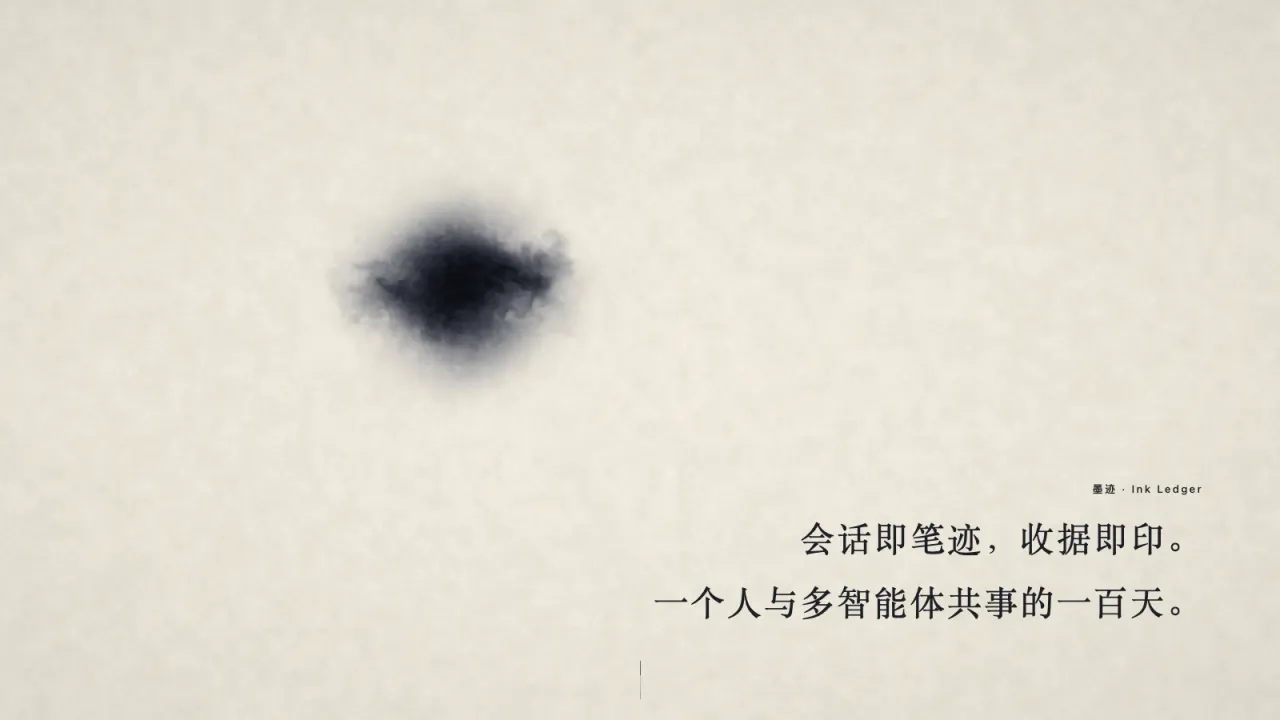
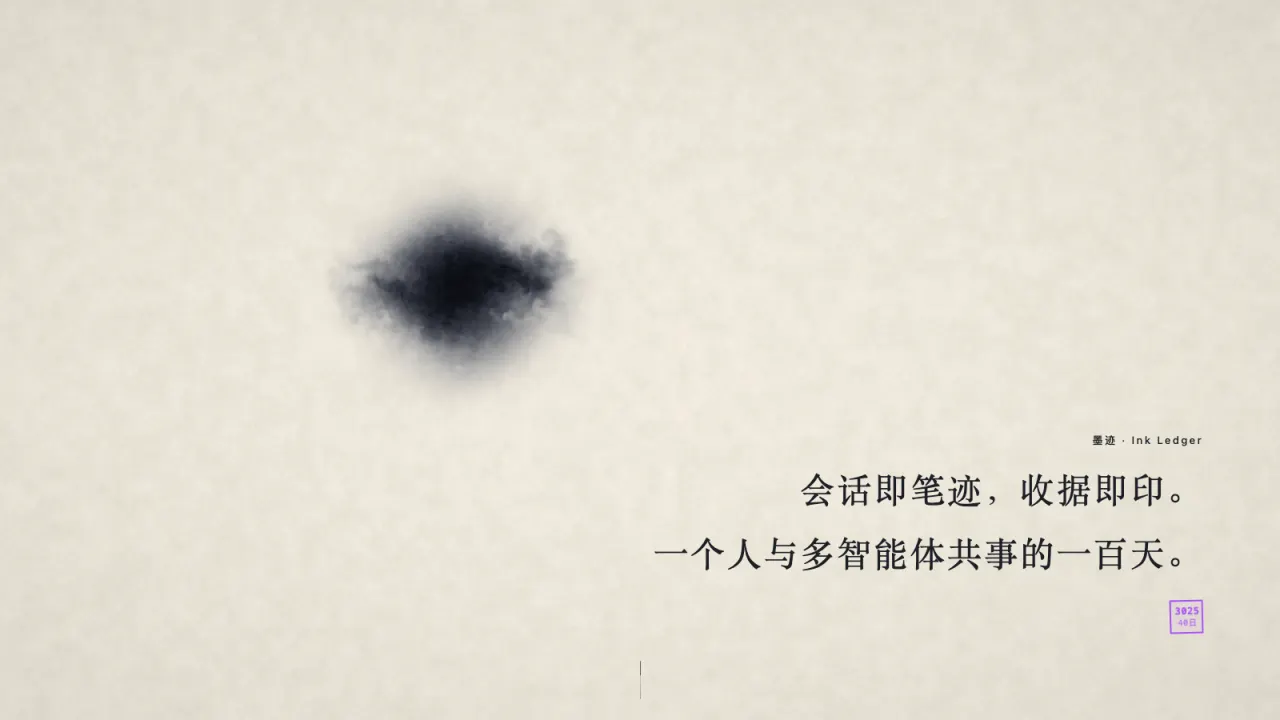
fix(nexus-hall): 墨流换台账坐标，并修出两个真 bug
墨流落点从装饰性撒点改为手卷坐标：横轴真实时间、纵轴六条席位墨带，
补轴标让映射可读（没有轴标的坐标等于没映射）。Grok 整条留白是诚实呈现。

连带挖出两个引擎 bug，都属于「不报错、ready 正常、只是画错」那一类：
- 叙事时钟累加的是夹持后的物理步长，10fps 下每秒只走 0.33 秒，600 滴的
  构图 24 秒只落 120 滴。同文件 idleSince 注释写的就是同一个错，当时只修了
  一处消费点。判据：错的量用在几处就要修几处。
- 改走墙钟后首帧一次性补落 85 滴堵死渲染线程（症状是截图超时）。加每帧上限 12。

另修 y 轴翻转（引擎左下 vs CSS 左上）与半径未随新布局校尺。

门禁（改动后重跑）：astro check 0 errors · 三门 rc=0 · e2e 9/9 · 海报双门过。

Changed region(s): [[0.5312, 0.6111, 0.9375, 0.8861], [0.9062, 0.6111, 0.9375, 0.6417]]

diff --git a/src/components/city/halls/nexus/ink/InkSurface.ts b/src/components/city/halls/nexus/ink/InkSurface.ts
@@ -171,7 +171,13 @@ export class InkSurface {
     this.lastTime = now;
     const dt = this.opts.fixedStep ?? real;
 
-    this.elapsed += dt;
+    // 🔴 叙事时钟走墙钟，物理步长走夹持值 —— 两个时钟两件事（R19 实测）。
+    // 此前 `elapsed += dt`（夹持后）与 idleSince 犯的是同一个错，当时只修了空转
+    // 判据没修这里：软件渲染 10fps 下每帧只累加 MAX_DT，每秒墙钟仅推进 0.33 秒，
+    // 于是 600 滴的构图在 24 秒墙钟里只落了约 120 滴（实测 x 只铺到 0.16），
+    // 画面塌成左下角一团 —— 而引擎不报错、ready 正常、海报照样生成。
+    // 构图必须在 span 秒内完成，无论帧率；物理仍用夹持 dt 保稳定。
+    this.elapsed += this.opts.fixedStep ?? wall;
     // 🔴 空转判据必须用真实墙钟：此前累加的是被 MAX_DT 夹持后的步长，
     // 低帧率下（软件渲染 10fps）每秒只累加 0.33，12 秒阈值要跑满 36 秒墙钟才触发。
     this.idleSince += wall;

diff --git a/docs/local-cmd/NEXUS-HALL-AUDIT-LEDGER.md b/docs/local-cmd/NEXUS-HALL-AUDIT-LEDGER.md
@@ -773,3 +773,43 @@ e2e 新增一条：降级时海报不仅 `visible`，还要 `complete && natural
    51px 实测变 **64px**（1.49 倍标题，偏大）。补上后 40px / 标题 43px = **0.93 倍**，符合建议。
 判据：**凡是"设了尺寸但看起来不对"，先量 `getBoundingClientRect()` 与参照物的比值**，
 不要凭肉眼调数值 —— 两次都是量出来才知道差在哪一层。
+
+## R19 · 墨流改成台账坐标，连带挖出两个真 bug（2026-09-04 07:0x–07:3x）
+
+### R19-1 落点从「装饰撒点」换成「手卷坐标」
+横轴=真实时间（2026-07-23→09-03），纵轴=6 条席位墨带，一带一色。
+并补了**轴标**（左侧席位名+墨色、底部起止日期）——没有轴标，「纵轴是席位」这个断言
+在画面上看不见，等于还是装饰。判据：**信息映射必须可读，否则和没映射一样。**
+W3 那条「单屏不做时间轴，否则忙日堆成黑柱」的旧裁定就此作废：堆叠是密度的诚实呈现。
+现在画面读得出来：Codex/Claude Code 满幅密布、Cursor 稀疏（14 条）、**Grok 整条空白**、
+agy 只在右端（10 条且都是近期）、api_direct 向右渐密。
+
+### R19-2 🔴 引擎叙事时钟用错了钟（真 bug，此前一直在，只是撒点时看不出来）
+`InkSurface.tick` 里 `elapsed += dt`，而 `dt = min(墙钟, MAX_DT=1/30)`。
+软件渲染 10fps 下每秒墙钟只推进 0.33 秒 —— 600 滴的构图在 24 秒里只落了约 120 滴。
+**画面塌成左下一团，而引擎不报错、ready 正常、海报照常生成。**
+更值得记的是：同一文件里 `idleSince` 那条注释写的就是同一个错（"空转判据必须用真实墙钟"），
+当时**只修了空转判据，没修叙事时钟**。判据：
+> 修一个「用错了时钟」的 bug 时，必须 grep 同一个变量的**所有**消费点，
+> 而不是只修当前症状指向的那一处。一个错的量被用在几个地方，就要修几次。
+
+修法：两个时钟两件事——物理步长继续夹持（稳定性），叙事时钟走墙钟（构图必须在 span 秒内完成）。
+
+### R19-3 🔴 修完立刻长出一个新 bug：墙钟带来「首帧一次性补齐」
+初始化耗掉的两秒，在第一帧一次性要求补落约 85 滴 ≈ 2000 次绘制，渲染线程当场堵死。
+症状是**构建期截图 30s 超时拿不到稳定帧**，而页面本身 200、无报错、canvas 在位。
+修法：每帧补齐上限 12 滴（60fps 只需 0.7 滴/帧，快设备永不触顶；慢设备只是构图变长不会卡死）。
+判据：**把一个"按帧累加"的量改成"按墙钟"，就要问一句「慢起步时它会要求我一次做多少事」。**
+
+### R19-4 两个坐标系与量纲错（都是出图才发现，静态检查全绿）
+1. **y 轴翻了**：引擎原点左下、CSS 左上。症状极具迷惑性——有墨、无报错，
+   只是每条墨带落在对面（Codex+Claude Code 的 502 滴堆到了 agy 的标签行上）。
+   靠「哪一团有 502 滴那么大」反推才认出来，不是看出来的。
+2. **半径没相对新布局定标**：沿用散点时代的 `0.011+r*0.038` → 直径 0.04~0.096，
+   而一天只有 0.86/40≈0.0215 宽，一滴糊住 2~4.5 天，六条墨带连成黑块。改 `0.005+r*0.009`。
+判据：**换了布局就要重新校尺**——旧参数在旧布局下是对的，这件事不传递。
+
+### R19-5 本批门禁（改动后重跑，非旧读数）
+`astro check` 0 errors · 发布安全门 rc=0 · 正确性门 rc=0 · 锚点门 rc=0 · e2e **9/9**
+· 海报 yin 17552 B / flow 9914 B（内容门+预算门均过）
+🔴 上一笔 8d5c6ae 是**先 commit 后补跑门**，顺序错了（advisor 指出）。本笔已改正。
